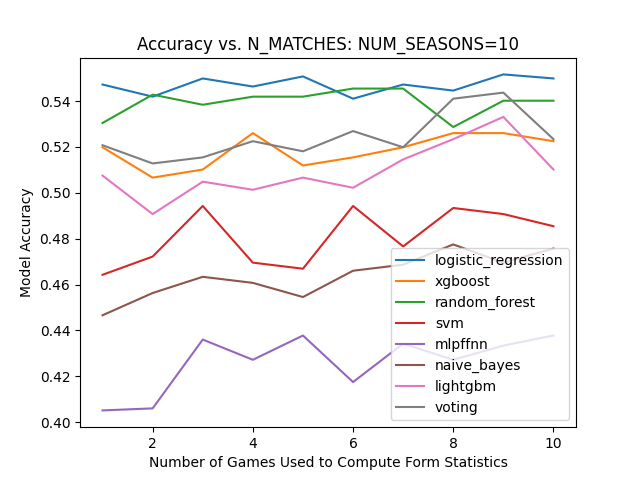
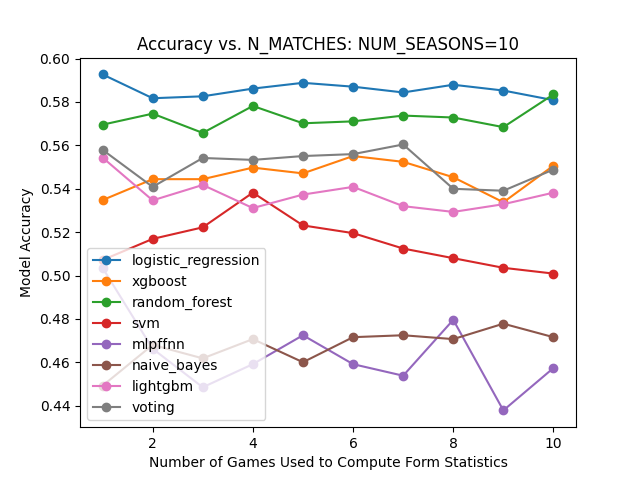
feat: rerun new accuracy vs N_MATCHES plot

diff --git a/src/data/scrape_values.py b/src/data/scrape_values.py
@@ -441,7 +441,7 @@ def merge_valuations_into_dataframe(df: pd.DataFrame, val_csv=OUTPUT_CSV, from_d
     # Load valuation data
     try:
         val_data = pd.read_csv(val_csv)
-        print(f"Loaded valuation data: {len(val_data)} rows")
+        # print(f">>> Loaded valuation data: {len(val_data)} rows")
     except FileNotFoundError:
         print(f"Error: Could not find valuation file: {val_csv}")
         print("Please run scraper first or ensure the file exists.")
@@ -458,15 +458,15 @@ def merge_valuations_into_dataframe(df: pd.DataFrame, val_csv=OUTPUT_CSV, from_d
     
     # Copy input dataframe
     match_df = df.copy()
-    print(f"Processing match data: {len(match_df)} rows")
+    # print(f">>> Processing match data: {len(match_df)} rows")
     
     match_df["_match_date"] = pd.to_datetime(match_df["date"], errors="coerce")
     
-    print("Merging home team valuations...")
+    # print(">>> Merging home team valuations...")
     match_df["home_team_normalized"] = match_df["home_team"].apply(normalize_team_name)
     match_df = merge_team_values(match_df, val_df, "home_team", "home_team_normalized", "_match_date", "home")
     
-    print("Merging away team valuations...")
+    # print(">>> Merging away team valuations...")
     match_df["away_team_normalized"] = match_df["away_team"].apply(normalize_team_name)
     match_df = merge_team_values(match_df, val_df, "away_team", "away_team_normalized", "_match_date", "away")
 
@@ -502,7 +502,7 @@ def merge_valuations_into_dataframe(df: pd.DataFrame, val_csv=OUTPUT_CSV, from_d
     
     match_df = match_df.drop(columns=["home_team_normalized", "away_team_normalized", "_match_date"], errors="ignore")
     
-    print("Added/updated columns: home_squad_size, away_squad_size, home_squad_value_log_z, away_squad_value_log_z, squad_value_log_advantage_z")
+    # print(">>> Added/updated columns: home_squad_size, away_squad_size, home_squad_value_log_z, away_squad_value_log_z, squad_value_log_advantage_z")
     
     return match_df
 

diff --git a/src/config.py b/src/config.py
@@ -18,7 +18,7 @@ class Models(Enum):
     VOTING              = auto()
 
 # The specific model we plan to train and evaluate. Options:
-MODEL = Models.SVM
+MODEL = Models.LOGISTIC_REGRESSION
 
 # The year ending the Premier League season we would like to consider.
 # e.g., 25 would indicate the Premier League 24/25 season.

diff --git a/src/models/XGboost.py b/src/models/XGboost.py
@@ -18,7 +18,8 @@ def train_model(X_train,y_train):
             reg_lambda=1.0,              # L2 regularization
             tree_method="hist",          # fast histogram-based
             eval_metric="mlogloss",
-            random_state=0
+            random_state=0,
+            n_jobs=-1
         ))
     ])
 

diff --git a/main.py b/main.py
@@ -81,5 +81,4 @@ def plot_accuracy_vs_n():
     plt.savefig(f'plots/accuracy_vs_n_{NUM_SEASONS}_seasons.png')
 
 if __name__ == "__main__":
-    # plot_accuracy_vs_n()
-    main()
+    plot_accuracy_vs_n()
